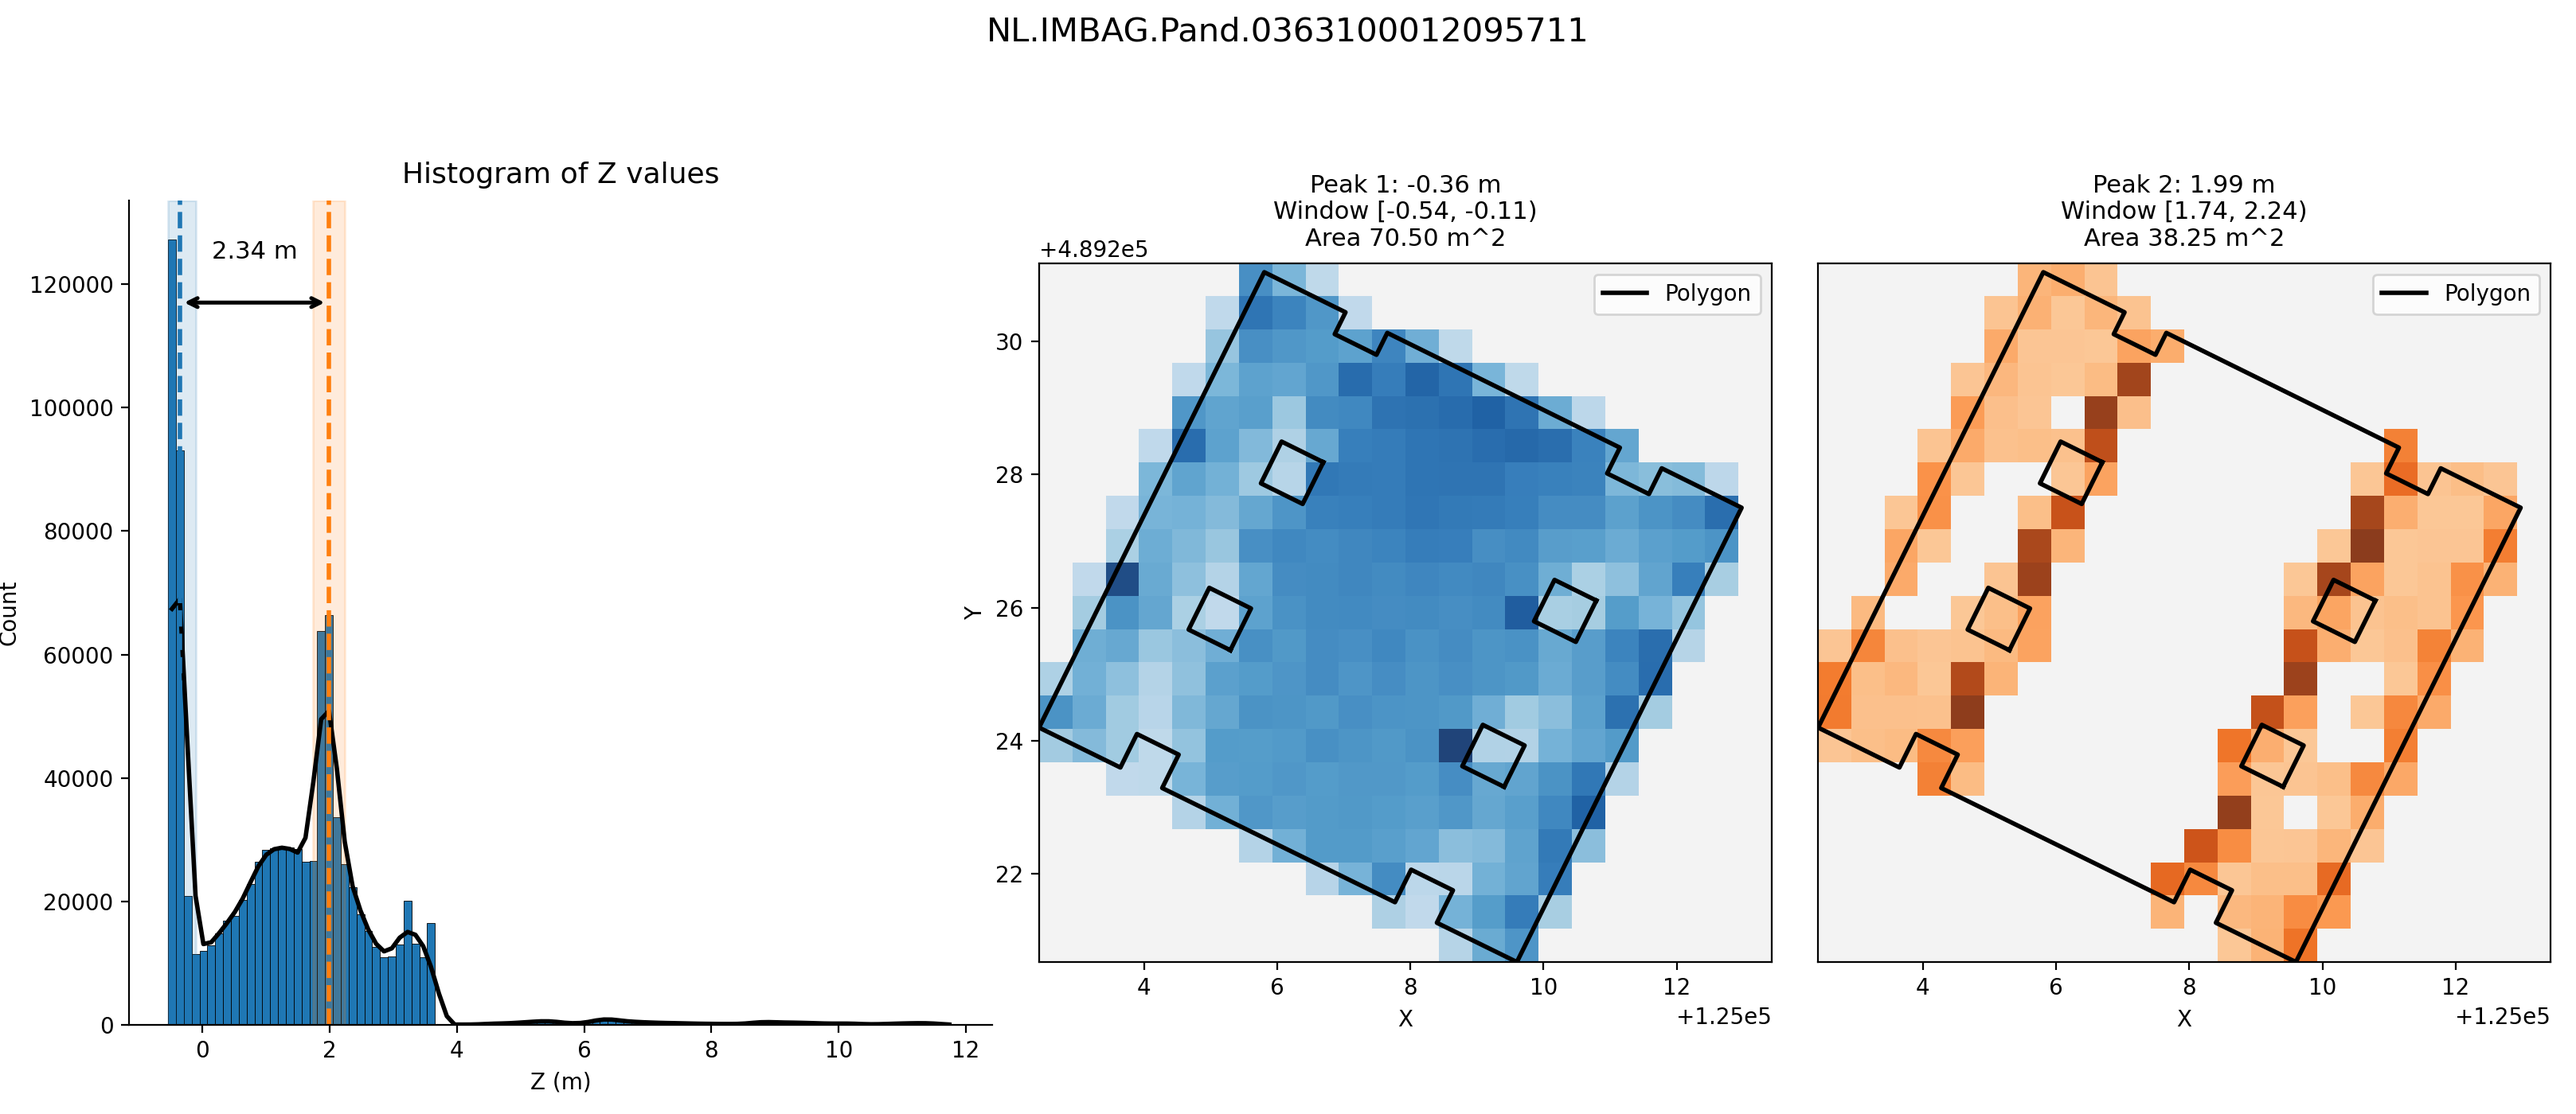
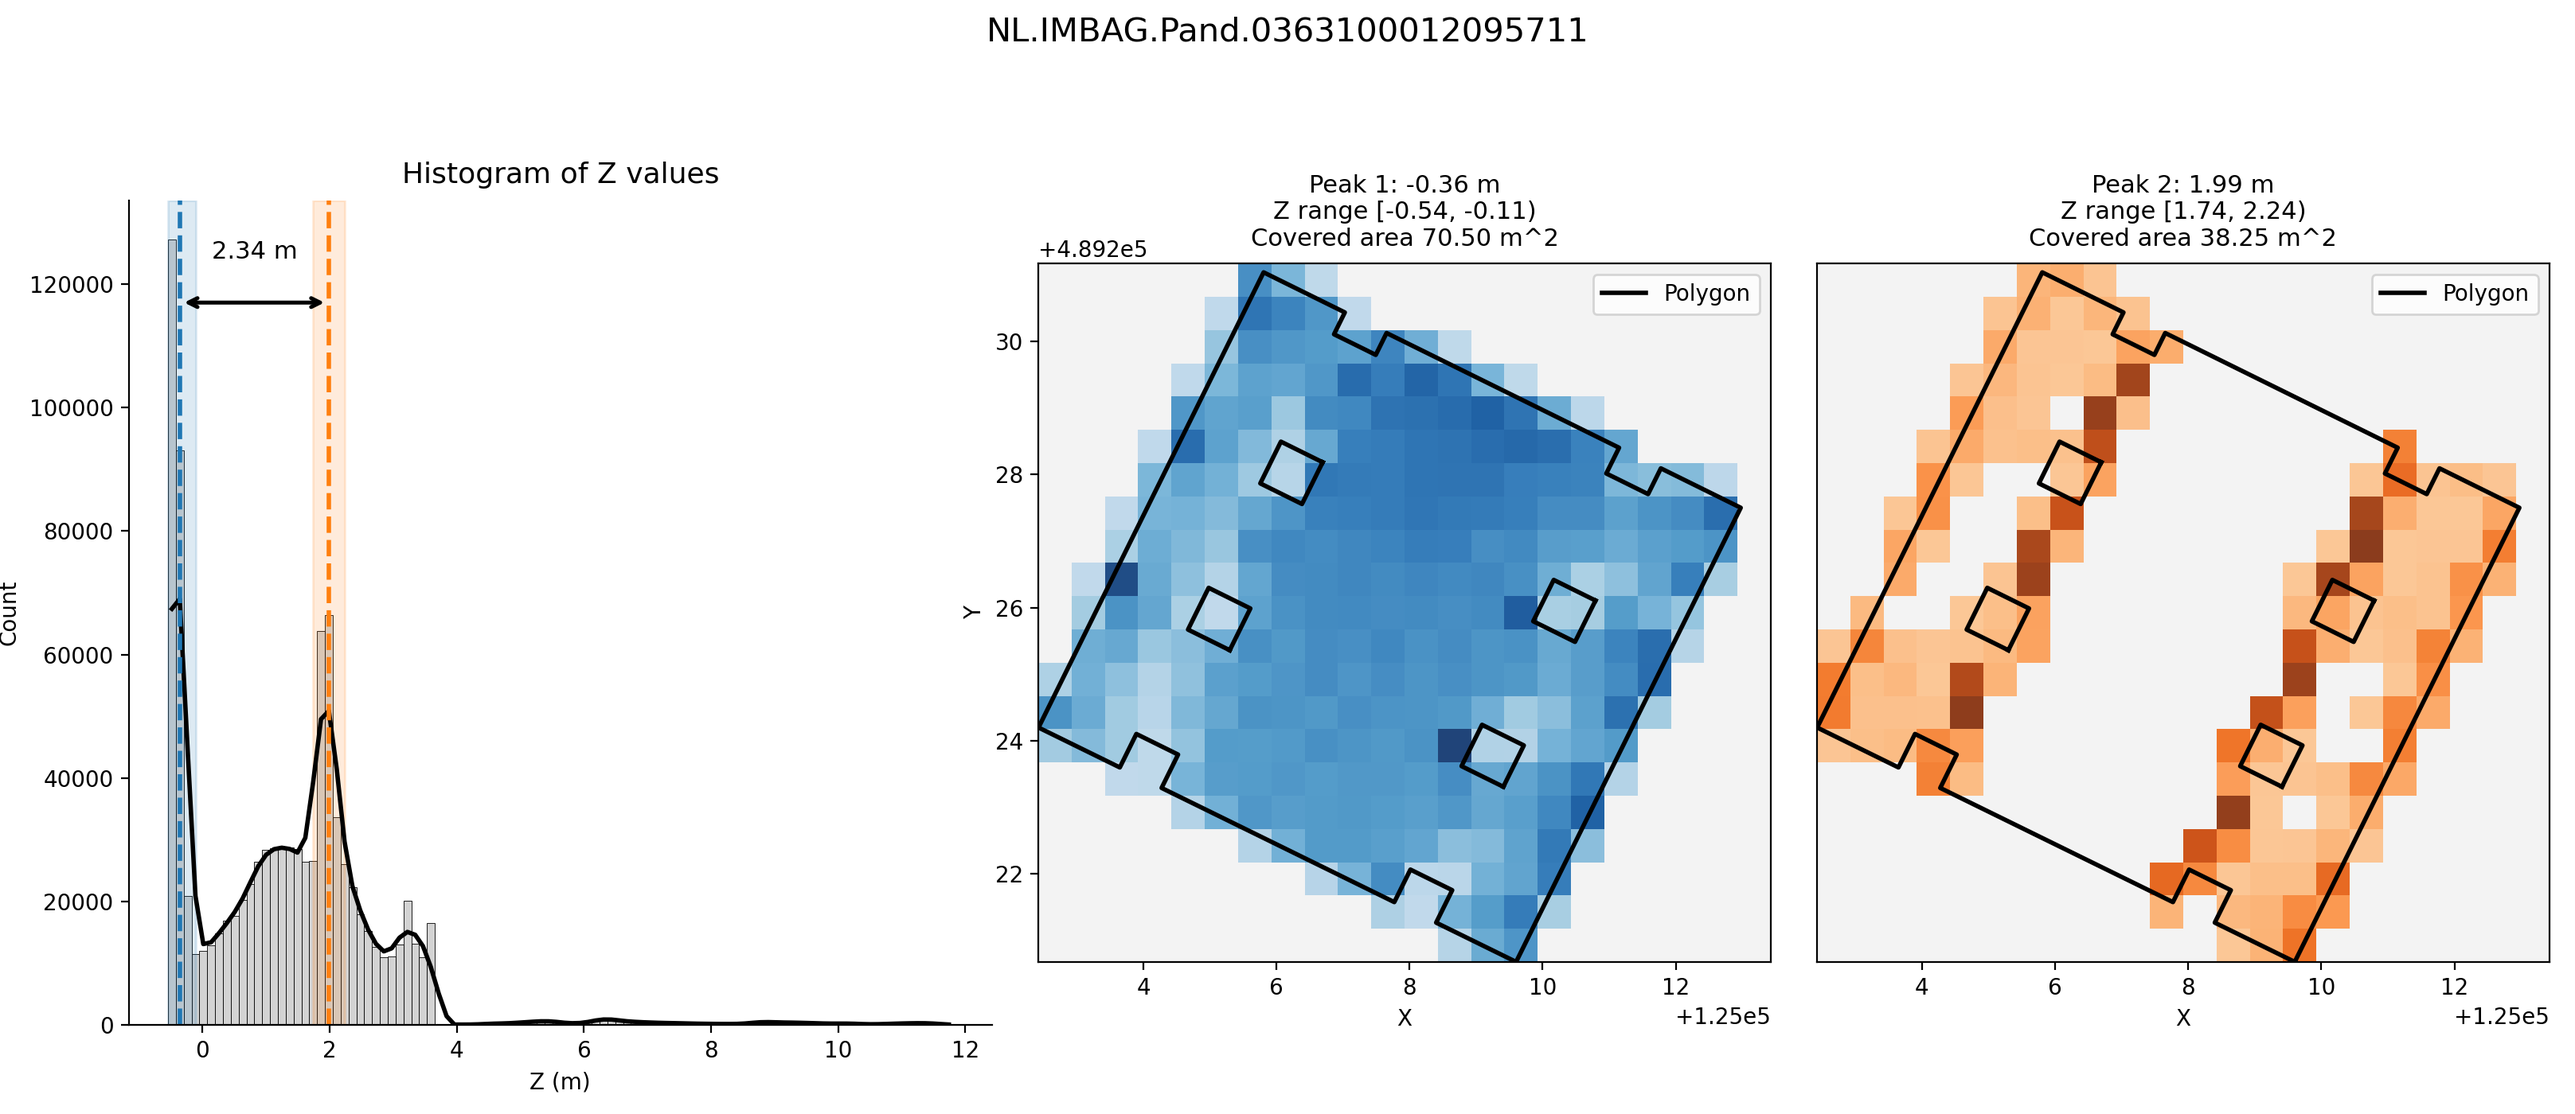
change histogram bar color

diff --git a/height_from_streetlidar/plot_z_histogram.py b/height_from_streetlidar/plot_z_histogram.py
@@ -323,7 +323,7 @@ def process_case(las_path, gpkg_path):
 
         print(
             f"Peak {i}: z ~= {bin_centers[peak_idx]:.2f} m, "
-            f"window [{z_min:.2f}, {z_max:.2f}), "
+            f"Z range [{z_min:.2f}, {z_max:.2f}), "
             f"points {np.count_nonzero(mask)}, "
             f"area {area:.2f} m^2"
         )
@@ -354,7 +354,13 @@ def process_case(las_path, gpkg_path):
     )
     ax_hist = axes[0]
 
-    ax_hist.hist(z, bins=HISTOGRAM_BINS, edgecolor="black", linewidth=0.3)
+    ax_hist.hist(
+        z,
+        bins=HISTOGRAM_BINS,
+        color="lightgray",
+        edgecolor="black",
+        linewidth=0.3,
+    )
     ax_hist.plot(
         bin_centers,
         smoothed_counts,
@@ -430,8 +436,8 @@ def process_case(las_path, gpkg_path):
             ax_map.tick_params(axis="y", which="both", left=False, labelleft=False)
         ax_map.set_title(
             f"Peak {i}: {bin_centers[peak_idx]:.2f} m\n"
-            f"Window [{z_min:.2f}, {z_max:.2f})\n"
-            f"Area {area:.2f} m^2",
+            f"Z range [{z_min:.2f}, {z_max:.2f})\n"
+            f"Covered area {area:.2f} m^2",
             fontsize=11,
             pad=8,
         )
